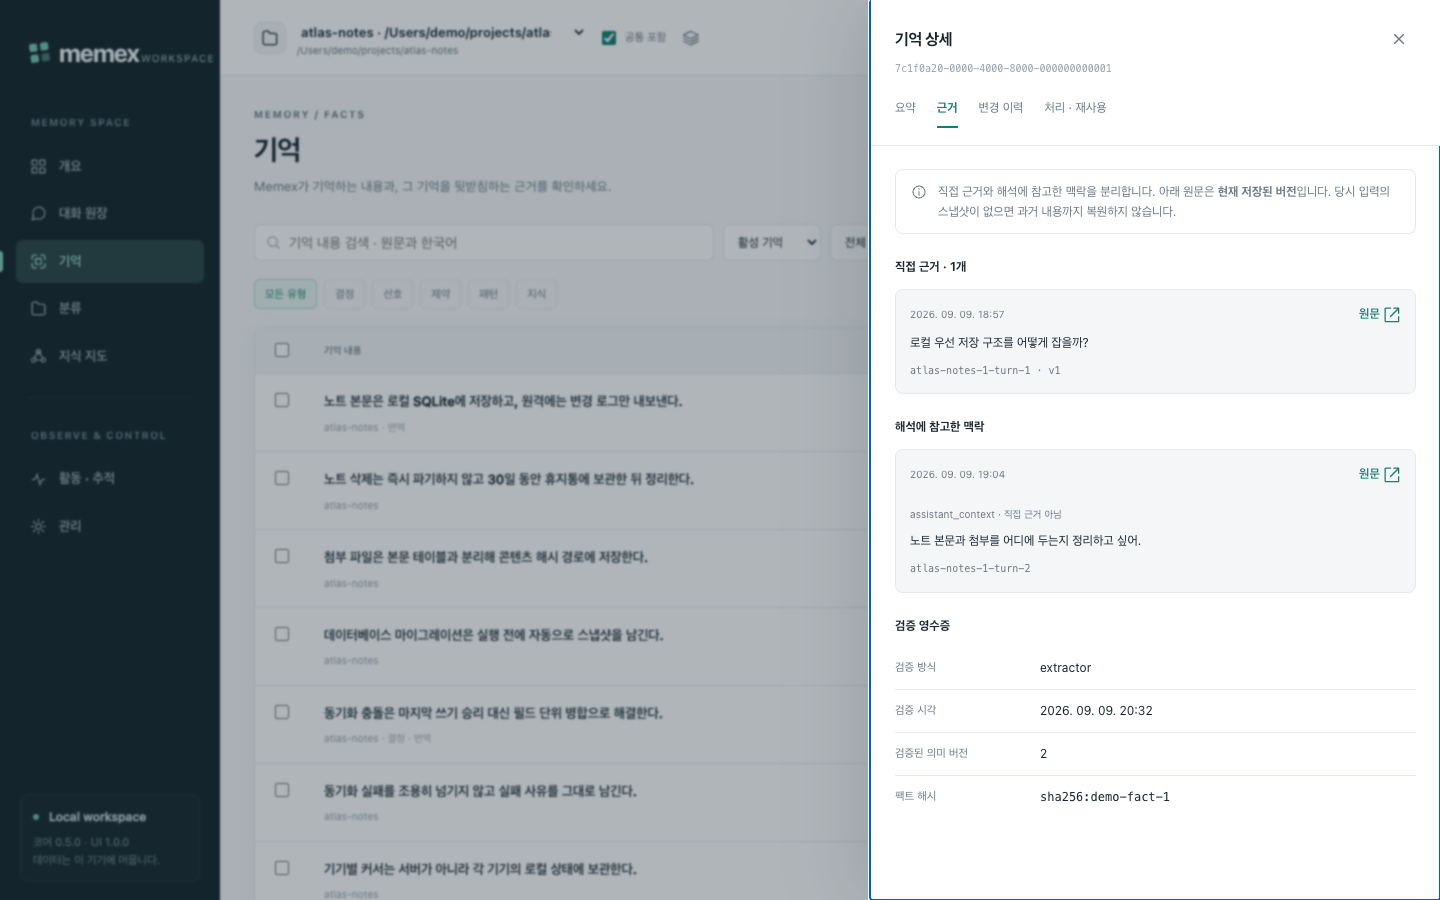
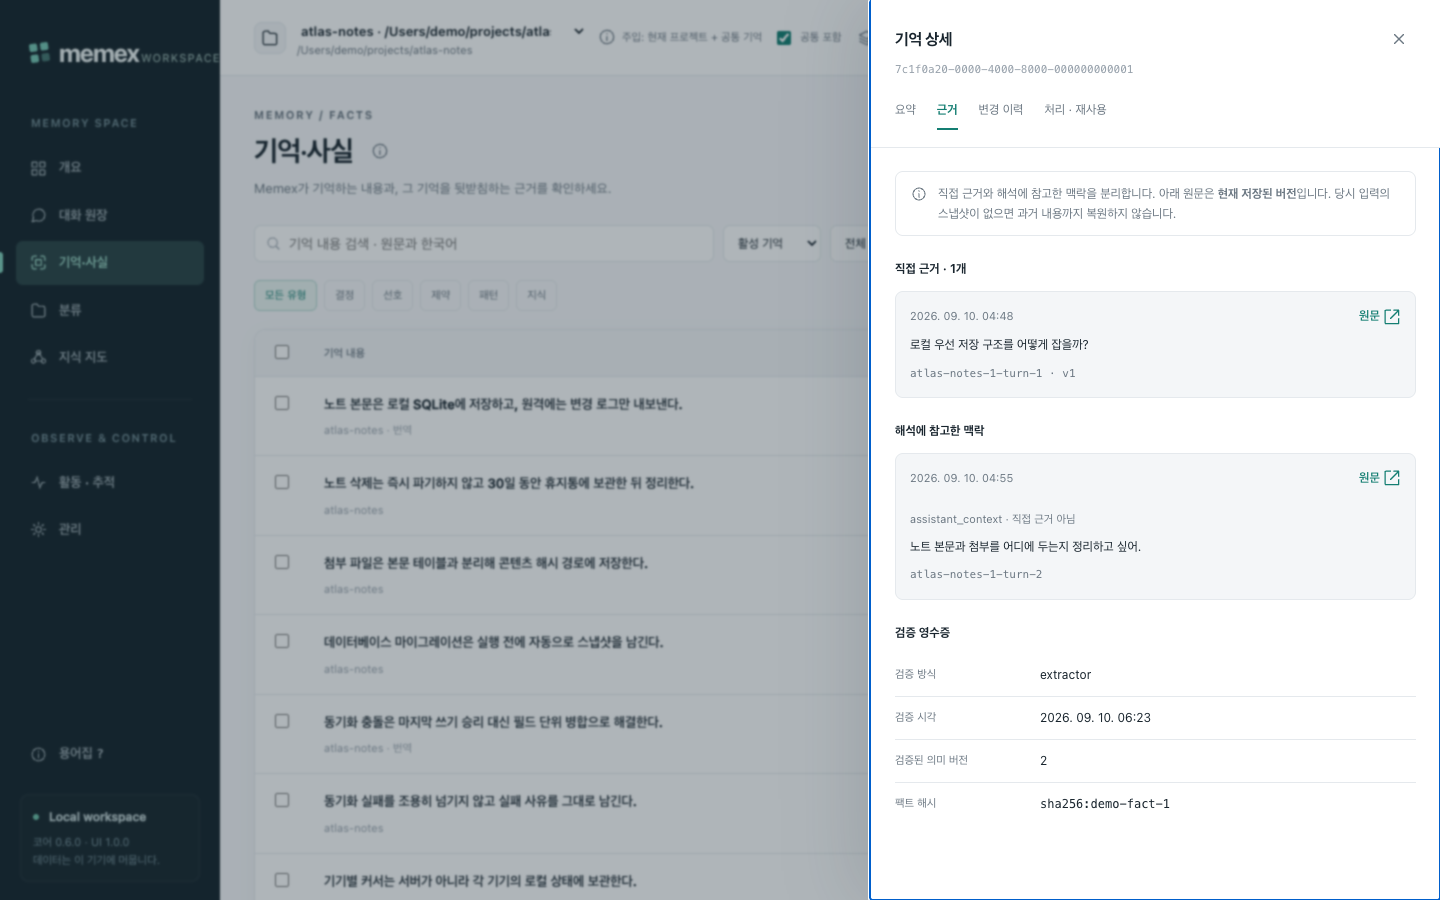
docs(ui): regenerate the README captures for 0.6.1
The sidebar's new glossary entry is a button, and .nav-item had only ever
dressed anchors, so it kept the user agent's default border and read as a
box floating in the sidebar. The rule now works for either element.

Captures redone from the same showcase fixture: the renamed 기억·사실 entry,
the scope selector with its counts and the permanent injection note, the page
ⓘ, and the overview's attention card grouping failures by class with their
actions.

Claude-Session: https://claude.ai/code/session_015mpUUAgXou2B4XsUUMC2im

diff --git a/ui/public/style.css b/ui/public/style.css
@@ -1,7 +1,7 @@
 :root{--bg:#f7f8fa;--surface:#fff;--surface-2:#f4f6f8;--surface-3:#edf1f4;--text:#19252e;--muted:#6c7883;--subtle:#98a2ac;--border:#e5e9ed;--primary:#147e72;--primary-bg:#eaf5f1;--primary-hover:#10695f;--danger:#bc4848;--danger-bg:#fff0ef;--warning:#a36b16;--warning-bg:#fff7e7;--info:#5076b0;--info-bg:#edf3fe;--sidebar:#17262d;--sidebar-text:#a1afb5;--radius:12px;--shadow:0 4px 20px #1b2c3e08;--font:Inter,-apple-system,BlinkMacSystemFont,"Segoe UI","Noto Sans KR","Apple SD Gothic Neo",Arial,sans-serif;--mono:"SFMono-Regular",Consolas,"Liberation Mono",monospace;--sidebar-width:220px}
 :root[data-theme=dark]{--bg:#141c22;--surface:#1b252d;--surface-2:#202d36;--surface-3:#283842;--text:#e4ecf0;--muted:#a2b0ba;--subtle:#71838e;--border:#2d3b45;--primary:#74cbb3;--primary-bg:#203d38;--primary-hover:#96ddca;--danger:#f19898;--danger-bg:#412e32;--warning:#e4bd78;--warning-bg:#403729;--info:#91b5ef;--info-bg:#25354b;--sidebar:#101a20;--sidebar-text:#a1afb5;--shadow:none}
 *{box-sizing:border-box}body{margin:0;background:var(--bg);color:var(--text);font:14px/1.65 var(--font);-webkit-font-smoothing:antialiased}button,input,select,textarea{font:inherit}button,a,input,select,textarea{outline-offset:4px}button{cursor:pointer}button:disabled{cursor:not-allowed;opacity:.46}a{color:inherit;text-decoration:none}a:hover{color:var(--primary)}button:focus-visible,a:focus-visible,input:focus-visible,select:focus-visible,textarea:focus-visible,summary:focus-visible,canvas:focus-visible{outline:2px solid var(--primary)}button{color:inherit}svg{flex-shrink:0}button svg,a svg{pointer-events:none}h1,h2,h3,h4,p{margin:0}h1{font-size:28px;font-weight:690;letter-spacing:-1px;line-height:1.35}h2{font-size:17px;font-weight:650;letter-spacing:-.4px}h3{font-size:15px;font-weight:650}small{font-size:12px}.muted{color:var(--muted)}.subtle{color:var(--subtle)}.mono{font-family:var(--mono);font-size:12px;overflow-wrap:anywhere}.strong{font-weight:650}.eyebrow{font-size:11px;letter-spacing:1.6px;font-weight:700;text-transform:uppercase;color:var(--muted)}.truncate{overflow:hidden;text-overflow:ellipsis;white-space:nowrap}.wrap{overflow-wrap:anywhere}.pre{white-space:pre-wrap;overflow-wrap:anywhere}.stack{display:flex;flex-direction:column;gap:16px}.stack-sm{display:flex;flex-direction:column;gap:9px}.row{display:flex;align-items:center;gap:10px}.row.wrap{flex-wrap:wrap}.spread{display:flex;align-items:center;justify-content:space-between;gap:16px}.grow{flex:1;min-width:0}.right{text-align:right}.hidden{display:none!important}.divider{height:1px;background:var(--border);margin:20px 0}.mt{margin-top:22px}.mb{margin-bottom:18px}.icon{width:18px;height:18px;display:inline-block;vertical-align:middle}.skip-link{position:fixed;top:-50px;z-index:100;background:var(--primary);color:white;padding:10px 20px}.skip-link:focus{top:0}
-#application{display:flex;min-height:100vh}.sidebar{position:fixed;inset:0 auto 0 0;width:var(--sidebar-width);background:var(--sidebar);color:var(--sidebar-text);padding:32px 16px 18px;display:flex;flex-direction:column;z-index:30}.brand{display:flex;align-items:center;gap:10px;color:#eff6f5;font-weight:720;font-size:25px;letter-spacing:-1.2px;padding:0 14px 31px}.brand-symbol{display:grid;grid-template-columns:8px 8px;gap:3px;transform:rotate(-8deg)}.brand-symbol i{width:8px;height:8px;background:#76c6b3;border-radius:2px}.brand-symbol i:last-child{opacity:.5}.brand small{font-size:11px;letter-spacing:1.1px;color:#97b2ac;margin:8px 0 0 2px;font-weight:500}.nav-caption{padding:10px 15px;font-size:11px;letter-spacing:1.4px;font-weight:650;color:#708a92}.nav-item{display:flex;align-items:center;gap:12px;padding:11px 14px;margin:4px 0;border-radius:7px;font-size:13px;font-weight:510;transition:background .12s}.nav-item:hover{background:#ffffff08;color:#edf6f3}.nav-item.active{background:#2b4547;color:#a5e3cf}.nav-item.active:before{content:'';position:absolute;left:0;width:3px;height:21px;background:#80cfba;border-radius:0 3px 3px 0}.nav-item .icon{width:17px;height:17px}.nav-separator{height:1px;background:#ffffff0d;margin:19px 12px}.sidebar-bottom{margin-top:auto}.local-card{border:1px solid #ffffff0c;border-radius:9px;padding:12px;background:#ffffff03;margin:18px 4px 0}.local-card .muted{color:#78929b;font-size:11px}.local-card strong{color:#c6d7d8;font-size:12px;font-weight:550}.dot{width:6px;height:6px;background:#6dbfa7;border-radius:50%;display:inline-block;flex-shrink:0}.dot.off{background:#c29363}.workspace{margin-left:var(--sidebar-width);width:calc(100% - var(--sidebar-width));min-width:0}.topbar{height:76px;border-bottom:1px solid var(--border);display:flex;align-items:center;justify-content:space-between;gap:20px;padding:0 34px;background:var(--surface);position:sticky;top:0;z-index:20}.scope-wrap{display:flex;align-items:center;gap:11px;min-width:0}.scope-icon{width:32px;height:32px;background:var(--surface-2);border:1px solid var(--border);border-radius:8px;display:grid;place-items:center}.scope-select{max-width:290px;border:0!important;padding:0 20px 0 0!important;background:transparent!important;font-weight:620;font-size:13px!important;height:24px!important}.scope-line{font-size:11px;color:var(--muted);line-height:1.2;max-width:310px}.scope-global{font-size:11px;display:flex;align-items:center;gap:6px;color:var(--muted);white-space:nowrap}.topbar-right{display:flex;align-items:center;gap:17px}.global-search{display:flex;align-items:center;gap:9px;width:260px;color:var(--subtle);background:var(--bg);border:1px solid var(--border);border-radius:7px;padding:7px 10px;font-size:12px}.global-search kbd{margin-left:auto;font:11px var(--font);border:1px solid var(--border);border-radius:4px;padding:0 5px;background:var(--surface)}.avatar{width:29px;height:29px;border:1px solid var(--border);border-radius:50%;display:grid;place-items:center;color:var(--muted);font-size:11px;background:var(--surface-2)}.connection{font-size:11px;color:var(--muted);display:flex;align-items:center;gap:6px}.topbar .icon-btn{width:28px;height:28px}#main{padding:30px 34px 44px;max-width:1780px;margin:0 auto;min-height:calc(100vh - 76px)}.page-header{display:flex;align-items:center;justify-content:space-between;gap:18px;margin-bottom:26px}.page-header p{font-size:13px;color:var(--muted);margin-top:8px}.page-header .eyebrow{margin-bottom:8px}.breadcrumb{font-size:11px;color:var(--muted);margin-bottom:14px;display:flex;gap:7px;align-items:center}.page-actions{display:flex;gap:9px;align-items:center;flex-shrink:0}.date-caption{font-size:11px;color:var(--muted)}.section-title{display:flex;align-items:center;justify-content:space-between;margin-bottom:15px;gap:12px}.section-title h2{font-size:15px}.section-title .muted{font-size:11px}
+#application{display:flex;min-height:100vh}.sidebar{position:fixed;inset:0 auto 0 0;width:var(--sidebar-width);background:var(--sidebar);color:var(--sidebar-text);padding:32px 16px 18px;display:flex;flex-direction:column;z-index:30}.brand{display:flex;align-items:center;gap:10px;color:#eff6f5;font-weight:720;font-size:25px;letter-spacing:-1.2px;padding:0 14px 31px}.brand-symbol{display:grid;grid-template-columns:8px 8px;gap:3px;transform:rotate(-8deg)}.brand-symbol i{width:8px;height:8px;background:#76c6b3;border-radius:2px}.brand-symbol i:last-child{opacity:.5}.brand small{font-size:11px;letter-spacing:1.1px;color:#97b2ac;margin:8px 0 0 2px;font-weight:500}.nav-caption{padding:10px 15px;font-size:11px;letter-spacing:1.4px;font-weight:650;color:#708a92}.nav-item{display:flex;align-items:center;gap:12px;padding:11px 14px;margin:4px 0;border-radius:7px;font-size:13px;font-weight:510;transition:background .12s;border:0;background:none;width:100%;text-align:left}.nav-item:hover{background:#ffffff08;color:#edf6f3}.nav-item.active{background:#2b4547;color:#a5e3cf}.nav-item.active:before{content:'';position:absolute;left:0;width:3px;height:21px;background:#80cfba;border-radius:0 3px 3px 0}.nav-item .icon{width:17px;height:17px}.nav-separator{height:1px;background:#ffffff0d;margin:19px 12px}.sidebar-bottom{margin-top:auto}.local-card{border:1px solid #ffffff0c;border-radius:9px;padding:12px;background:#ffffff03;margin:18px 4px 0}.local-card .muted{color:#78929b;font-size:11px}.local-card strong{color:#c6d7d8;font-size:12px;font-weight:550}.dot{width:6px;height:6px;background:#6dbfa7;border-radius:50%;display:inline-block;flex-shrink:0}.dot.off{background:#c29363}.workspace{margin-left:var(--sidebar-width);width:calc(100% - var(--sidebar-width));min-width:0}.topbar{height:76px;border-bottom:1px solid var(--border);display:flex;align-items:center;justify-content:space-between;gap:20px;padding:0 34px;background:var(--surface);position:sticky;top:0;z-index:20}.scope-wrap{display:flex;align-items:center;gap:11px;min-width:0}.scope-icon{width:32px;height:32px;background:var(--surface-2);border:1px solid var(--border);border-radius:8px;display:grid;place-items:center}.scope-select{max-width:290px;border:0!important;padding:0 20px 0 0!important;background:transparent!important;font-weight:620;font-size:13px!important;height:24px!important}.scope-line{font-size:11px;color:var(--muted);line-height:1.2;max-width:310px}.scope-global{font-size:11px;display:flex;align-items:center;gap:6px;color:var(--muted);white-space:nowrap}.topbar-right{display:flex;align-items:center;gap:17px}.global-search{display:flex;align-items:center;gap:9px;width:260px;color:var(--subtle);background:var(--bg);border:1px solid var(--border);border-radius:7px;padding:7px 10px;font-size:12px}.global-search kbd{margin-left:auto;font:11px var(--font);border:1px solid var(--border);border-radius:4px;padding:0 5px;background:var(--surface)}.avatar{width:29px;height:29px;border:1px solid var(--border);border-radius:50%;display:grid;place-items:center;color:var(--muted);font-size:11px;background:var(--surface-2)}.connection{font-size:11px;color:var(--muted);display:flex;align-items:center;gap:6px}.topbar .icon-btn{width:28px;height:28px}#main{padding:30px 34px 44px;max-width:1780px;margin:0 auto;min-height:calc(100vh - 76px)}.page-header{display:flex;align-items:center;justify-content:space-between;gap:18px;margin-bottom:26px}.page-header p{font-size:13px;color:var(--muted);margin-top:8px}.page-header .eyebrow{margin-bottom:8px}.breadcrumb{font-size:11px;color:var(--muted);margin-bottom:14px;display:flex;gap:7px;align-items:center}.page-actions{display:flex;gap:9px;align-items:center;flex-shrink:0}.date-caption{font-size:11px;color:var(--muted)}.section-title{display:flex;align-items:center;justify-content:space-between;margin-bottom:15px;gap:12px}.section-title h2{font-size:15px}.section-title .muted{font-size:11px}
 .btn{border:1px solid var(--border);border-radius:7px;background:var(--surface);padding:8px 13px;display:inline-flex;align-items:center;justify-content:center;gap:7px;font-weight:550;font-size:12px;line-height:1.5;white-space:nowrap;min-height:35px}.btn:hover:not(:disabled){background:var(--surface-2);border-color:var(--subtle)}.btn.primary{background:var(--primary);color:var(--surface);border-color:var(--primary)}.btn.primary:hover:not(:disabled){background:var(--primary-hover)}.btn.danger{color:var(--danger);border-color:var(--danger);background:var(--danger-bg)}.btn.ghost{background:transparent;border-color:transparent}.btn.small{min-height:28px;padding:4px 8px;font-size:11px}.btn .icon{width:14px;height:14px}.icon-btn{display:inline-flex;align-items:center;justify-content:center;flex-shrink:0;border:1px solid transparent;background:transparent;border-radius:6px;width:34px;height:34px;color:var(--muted)}.icon-btn:hover{background:var(--surface-2);color:var(--text)}.text-link{border:0;background:none;color:var(--primary);padding:0;font-size:12px;font-weight:550;text-align:left;cursor:pointer}.text-link:hover{text-decoration:underline}.tag{display:inline-flex;align-items:center;gap:5px;padding:3px 8px;border-radius:5px;font-size:11px;line-height:1.5;font-weight:560;white-space:nowrap;background:var(--surface-2);color:var(--muted);border:1px solid transparent}.tag.green{background:var(--primary-bg);color:var(--primary)}.tag.amber{background:var(--warning-bg);color:var(--warning)}.tag.red{background:var(--danger-bg);color:var(--danger)}.tag.blue{background:var(--info-bg);color:var(--info)}.tag.outline{background:transparent;border-color:var(--border)}.tag.purple{color:#856caa;background:#f2edf9}[data-theme=dark] .tag.purple{background:#352c44;color:#c1a9e1}.mini-dot{height:5px;width:5px;border-radius:50%;background:currentColor}.badge-count{background:var(--surface-3);padding:1px 6px;border-radius:4px;font-size:11px;color:var(--muted)}
 .card{background:var(--surface);border:1px solid var(--border);border-radius:var(--radius);box-shadow:var(--shadow);overflow:hidden}.card.pad{padding:22px}.card-head{display:flex;align-items:center;justify-content:space-between;gap:12px;padding:19px 22px;border-bottom:1px solid var(--border)}.card-head h2{font-size:14px}.card-head p{font-size:11px;color:var(--muted);margin-top:3px}.card-body{padding:20px 22px}.card-footer{padding:11px 20px;background:var(--surface-2);font-size:11px;color:var(--muted);border-top:1px solid var(--border)}.metrics{display:grid;grid-template-columns:repeat(4,minmax(0,1fr));gap:16px;margin-bottom:25px}.metric{padding:19px 21px 18px;position:relative}.metric-label{font-size:11px;color:var(--muted);display:flex;align-items:center;gap:7px}.metric-value{font-size:32px;line-height:1.25;letter-spacing:-1.3px;font-weight:650;margin:15px 0 11px}.metric-caption{font-size:11px;color:var(--muted)}.metric .metric-icon{position:absolute;right:19px;top:18px;width:28px;height:28px;border-radius:8px;display:grid;place-items:center;background:var(--surface-2);color:var(--muted)}.metric .metric-icon .icon{width:14px;height:14px}.metric.accent{border-color:#bbddd4}.metric.accent .metric-icon{color:var(--primary);background:var(--primary-bg)}.metric.accent .metric-value{color:var(--primary)}.two-col{display:grid;grid-template-columns:minmax(0,1.55fr) minmax(290px,1fr);gap:22px}.three-col{display:grid;grid-template-columns:repeat(3,minmax(0,1fr));gap:16px}.overview-bottom{display:grid;grid-template-columns:minmax(0,1.1fr) minmax(0,1fr);gap:22px;margin-top:22px}.banner{display:flex;align-items:flex-start;gap:11px;background:var(--info-bg);color:var(--info);border:1px solid color-mix(in srgb,var(--info) 15%,transparent);border-radius:8px;padding:12px 15px;font-size:12px;margin-bottom:20px;line-height:1.65}.banner.warning{color:var(--warning);background:var(--warning-bg);border-color:color-mix(in srgb,var(--warning) 17%,transparent)}.banner.error{color:var(--danger);background:var(--danger-bg);border-color:color-mix(in srgb,var(--danger) 15%,transparent)}.banner.neutral{color:var(--muted);background:var(--surface);border-color:var(--border)}.banner .icon{width:16px;height:16px;margin-top:2px}.banner p+p{margin-top:4px}.banner .btn{margin-left:auto}.status-list{display:flex;flex-direction:column;gap:0}.status-step{display:flex;gap:12px;padding:13px 0}.status-step+.status-step{border-top:1px solid var(--border)}.status-step .step-icon{width:29px;height:29px;display:grid;place-items:center;background:var(--primary-bg);border-radius:8px;color:var(--primary);flex-shrink:0}.status-step .step-icon.warn{background:var(--warning-bg);color:var(--warning)}.status-step .step-icon .icon{width:15px;height:15px}.status-step h3{font-size:12px}.status-step p{font-size:11px;color:var(--muted);margin-top:3px}.timeline-item{display:flex;gap:13px;padding:16px 22px;position:relative}.timeline-item+.timeline-item{border-top:1px solid var(--border)}.timeline-icon{width:29px;height:29px;display:grid;place-items:center;flex-shrink:0;border:1px solid var(--border);background:var(--surface-2);border-radius:8px;color:var(--muted);margin-top:2px}.timeline-icon .icon{width:13px;height:13px}.timeline-item .title{font-size:12px;font-weight:560;display:-webkit-box;-webkit-line-clamp:2;-webkit-box-orient:vertical;overflow:hidden;margin:5px 0 4px;line-height:1.75}.timeline-item .meta{font-size:11px;color:var(--muted);display:flex;gap:8px;align-items:center;flex-wrap:wrap}.timeline-item .time{font-size:11px;color:var(--subtle);white-space:nowrap}.timeline-item button.title{border:0;background:none;padding:0;text-align:left;color:var(--text)}.timeline-item button.title:hover{color:var(--primary)}.activity-chart{height:125px;display:flex;align-items:flex-end;gap:5px;padding-top:14px;position:relative}.chart-bar{flex:1;min-width:0;background:#c8e5dc;border-radius:3px 3px 0 0;height:calc(var(--h)*1%);min-height:3px}.chart-bar.recent{background:#62af98}.chart-axis{display:flex;justify-content:space-between;color:var(--subtle);font-size:11px;border-top:1px solid var(--border);padding-top:7px}.session-mini{padding:13px 0;display:flex;align-items:flex-start;gap:11px}.session-mini+.session-mini{border-top:1px solid var(--border)}.session-mini .title{font-size:12px;white-space:nowrap;overflow:hidden;text-overflow:ellipsis}.session-mini .meta{font-size:11px;color:var(--muted);margin-top:4px}.progress{height:5px;border-radius:8px;background:var(--surface-3);overflow:hidden}.progress i{display:block;height:100%;width:calc(var(--progress)*1%);background:var(--primary);border-radius:8px}
 .toolbar{display:flex;align-items:center;gap:9px;flex-wrap:wrap;margin-bottom:18px}.toolbar .search-field{min-width:240px;flex:1;max-width:460px}.search-field{display:flex;align-items:center;gap:8px;padding:0 11px;border:1px solid var(--border);border-radius:7px;background:var(--surface);height:37px}.search-field .icon{width:15px;height:15px;color:var(--subtle)}.search-field input{border:0;background:transparent;width:100%;height:100%;padding:0;outline:0;color:var(--text);min-width:0}.search-field:focus-within{outline:2px solid var(--primary);outline-offset:1px}.input,select,textarea,input[type=date],input[type=number]{border:1px solid var(--border);border-radius:7px;background:var(--surface);color:var(--text);padding:7px 10px;min-width:0;font-size:12px;height:37px}.input{width:100%}textarea{height:auto;width:100%;min-height:140px;resize:vertical;font-size:14px;line-height:1.75}.field{display:flex;flex-direction:column;gap:7px;font-size:12px}.field label{font-weight:600}.field small{font-size:11px;color:var(--muted)}input[type=checkbox]{accent-color:var(--primary);width:14px;height:14px;cursor:pointer}input[type=range]{accent-color:var(--primary);width:100%}.filters{display:flex;gap:7px;align-items:center;flex-wrap:wrap;margin-bottom:19px}.filter-chip{border:1px solid var(--border);border-radius:6px;background:transparent;color:var(--muted);padding:5px 10px;font-size:11px}.filter-chip.active{background:var(--primary-bg);color:var(--primary);border-color:color-mix(in srgb,var(--primary) 25%,transparent)}.tabs{display:flex;gap:20px;border-bottom:1px solid var(--border);margin-bottom:23px;overflow:auto;white-space:nowrap}.tab{display:inline-flex;align-items:center;gap:7px;border:0;border-bottom:2px solid transparent;background:transparent;color:var(--muted);padding:10px 2px 12px;font-size:12px}.tab.active{border-color:var(--primary);color:var(--primary);font-weight:650}.tab .icon{width:15px;height:15px}.table-wrap{width:100%;overflow:auto}.data-table{width:100%;border-collapse:collapse;font-size:12px;text-align:left}.data-table th{font-size:11px;font-weight:550;color:var(--muted);background:var(--surface-2);padding:12px 16px;border-bottom:1px solid var(--border);white-space:nowrap}.data-table td{padding:16px;border-bottom:1px solid var(--border);vertical-align:top}.data-table tr:last-child td{border-bottom:0}.data-table tbody tr:hover{background:color-mix(in srgb,var(--surface-2) 70%,transparent)}.data-table .fact-text{font-size:13px;line-height:1.8;font-weight:520;display:block;max-width:610px;min-width:230px;background:none;border:0;padding:0;text-align:left;color:var(--text)}.data-table .fact-text:hover{color:var(--primary)}.data-table .cell-meta{font-size:11px;color:var(--subtle);margin-top:5px;max-width:500px}.data-table .nowrap{white-space:nowrap}.data-table .check{width:35px}.pagination{display:flex;align-items:center;justify-content:space-between;padding:14px 19px;border-top:1px solid var(--border);font-size:11px;color:var(--muted)}.pagination .btn{font-size:11px;padding:4px 9px;min-height:28px}.pagination .pages{display:flex;gap:7px;align-items:center}.selection-bar{display:flex;align-items:center;gap:12px;background:var(--primary-bg);border:1px solid color-mix(in srgb,var(--primary) 20%,transparent);border-radius:7px;padding:9px 13px;margin-bottom:14px;color:var(--primary);font-size:12px}.empty{text-align:center;padding:54px 25px;color:var(--muted)}.empty-icon{display:grid;place-items:center;width:48px;height:48px;background:var(--surface-2);border-radius:14px;margin:0 auto 15px}.empty-icon .icon{width:23px;height:23px;color:var(--subtle)}.empty h3{color:var(--text);font-size:14px;margin-bottom:7px}.empty p{font-size:12px;max-width:470px;margin:auto}.empty .btn{margin-top:16px}.skeleton{height:15px;border-radius:4px;background:linear-gradient(90deg,var(--surface-2),var(--surface-3),var(--surface-2));background-size:200% 100%;animation:shimmer 1.4s infinite}.skeleton.card{height:160px}.loading-grid{display:grid;grid-template-columns:repeat(4,1fr);gap:16px}.boot{display:flex;flex-direction:column;align-items:center;gap:15px;padding:100px 20px;color:var(--muted);font-size:13px}.spinner{display:inline-block;width:23px;height:23px;border:2px solid var(--border);border-top-color:var(--primary);border-radius:50%;animation:spin .7s linear infinite}.error-code{font:11px var(--mono);opacity:.7;margin-top:7px}@keyframes shimmer{to{background-position:-200% 0}}@keyframes spin{to{transform:rotate(360deg)}}
